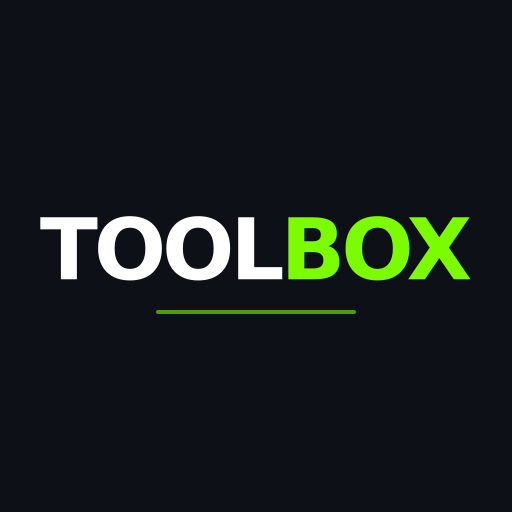
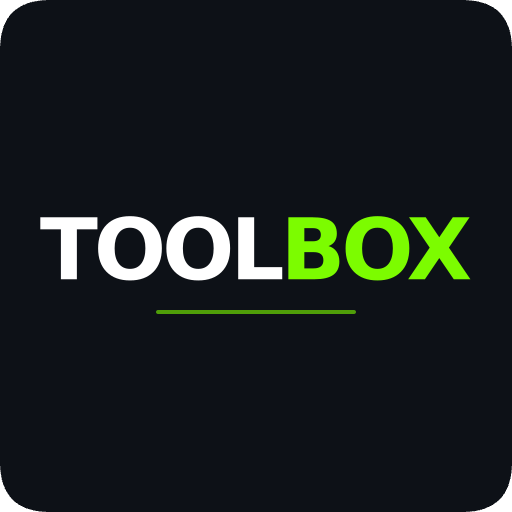
new_update

diff --git a/pages/iconResizer/index.html b/pages/iconResizer/index.html
@@ -43,53 +43,27 @@
         #cropper-wrapper { display: none; width: 100%; height: 100%; position: absolute; top: 0; left: 0; }
         #image-to-crop { display: block; max-width: 100%; }
 
-        /* YENİ: KIRPMA MODU SEÇİCİ */
-        .crop-mode-selector {
-            display: grid;
-            grid-template-columns: 1fr 1fr;
-            gap: 10px;
-            margin-bottom: 20px;
-        }
-
-        .mode-option {
-            background: #000;
-            border: 1px solid var(--border-neon);
-            border-radius: 10px;
-            padding: 12px;
-            color: var(--text-secondary);
-            font-size: 11px;
-            font-weight: 800;
-            text-transform: uppercase;
-            cursor: pointer;
-            transition: 0.3s;
-            display: flex;
-            justify-content: center;
-            align-items: center;
-            gap: 8px;
-        }
-
-        .mode-option.active {
-            color: #000;
-            background: var(--accent);
-            border-color: var(--accent);
-            box-shadow: 0 0 15px var(--accent);
-        }
+        .crop-mode-selector { display: grid; grid-template-columns: 1fr 1fr; gap: 10px; margin-bottom: 20px; }
+        .mode-option { background: #000; border: 1px solid var(--border-neon); border-radius: 10px; padding: 12px; color: var(--text-secondary); font-size: 11px; font-weight: 800; text-transform: uppercase; cursor: pointer; transition: 0.3s; display: flex; justify-content: center; align-items: center; gap: 8px; }
+        .mode-option.active { color: #000; background: var(--accent); border-color: var(--accent); box-shadow: 0 0 15px var(--accent); }
 
         .controls-group { display: grid; grid-template-columns: 1fr 1fr; gap: 15px; margin-bottom: 20px; }
         label { display: block; color: var(--text-secondary); font-size: 10px; font-weight: 800; margin-bottom: 8px; text-transform: uppercase; }
-        input[type="number"] { width: 100%; background: #000; border: 1px solid var(--border-neon); border-radius: 10px; padding: 14px; color: var(--accent); font-weight: 700; outline: none; }
+        input[type="number"] { width: 100%; background: #000; border: 1px solid var(--border-neon); border-radius: 10px; padding: 14px; color: var(--accent); font-weight: 700; outline: none; transition: 0.3s; }
+        input[type="number"]:focus { border-color: var(--accent); box-shadow: 0 0 10px var(--border-neon); }
 
         .btn-group { display: flex; gap: 10px; }
-        .btn { flex: 1; background: transparent; color: var(--accent); border: 2px solid var(--accent); border-radius: 12px; padding: 16px; font-size: 14px; font-weight: 800; text-transform: uppercase; cursor: pointer; display: flex; justify-content: center; align-items: center; gap: 10px; }
-        .btn:hover:not(:disabled) { background: var(--accent); color: #000; }
-        .btn:disabled { opacity: 0.2; }
+        .btn { flex: 1; background: transparent; color: var(--accent); border: 2px solid var(--accent); border-radius: 12px; padding: 16px; font-size: 14px; font-weight: 800; text-transform: uppercase; cursor: pointer; display: flex; justify-content: center; align-items: center; gap: 10px; transition: 0.3s; }
+        .btn:hover:not(:disabled) { background: var(--accent); color: #000; box-shadow: 0 0 20px var(--accent-glow); }
+        .btn:disabled { opacity: 0.2; cursor: not-allowed; }
         .btn-secondary { border-color: #30363d; color: #8b949e; }
 
         #file-input { display: none; }
         
         /* Cropper Customization */
-        .cropper-view-box { outline: 2px solid var(--accent); }
+        .cropper-view-box { outline: 2px solid var(--accent); transition: border-radius 0.3s ease; }
         .cropper-line, .cropper-point { background-color: var(--accent); }
+        .cropper-face { background-color: transparent !important; }
     </style>
 </head>
 <body>
@@ -132,6 +106,10 @@
                 <label>Yükseklik (px)</label>
                 <input type="number" id="height-input" value="512">
             </div>
+            <div class="input-item" style="grid-column: span 2;">
+                <label>Köşe Yumuşatma (Radius - px)</label>
+                <input type="number" id="radius-input" value="0" min="0" placeholder="Örn: 80">
+            </div>
         </div>
 
         <div class="btn-group">
@@ -142,7 +120,6 @@
         </div>
     </div>
 
-    <canvas id="canvas" style="display:none;"></canvas>
     <script src="https://cdnjs.cloudflare.com/ajax/libs/cropperjs/1.5.13/cropper.min.js"></script>
 
     <script>
@@ -153,6 +130,7 @@
         const fileNameDisplay = document.getElementById('file-name-display');
         const widthInput = document.getElementById('width-input');
         const heightInput = document.getElementById('height-input');
+        const radiusInput = document.getElementById('radius-input');
         const downloadBtn = document.getElementById('download-btn');
         const resetBtn = document.getElementById('reset-btn');
 
@@ -161,13 +139,10 @@
 
         let cropper = null;
         let currentFileName = "icon.png";
-        let currentCropMode = 'square'; // Varsayılan mod
+        let currentCropMode = 'square';
 
-        // Kırpma Modunu Ayarla
         function setCropMode(mode) {
             currentCropMode = mode;
-            
-            // UI Güncelle
             [modeSquare, modeFree].forEach(opt => opt.classList.remove('active'));
             if (mode === 'square') {
                 modeSquare.classList.add('active');
@@ -175,15 +150,18 @@
                 modeFree.classList.add('active');
             }
 
-            // Cropper'ı Güncelle (Eğer aktifse)
             if (cropper) {
-                if (mode === 'square') {
-                    cropper.setAspectRatio(1);
-                } else {
-                    cropper.setAspectRatio(NaN); // Serbest oran
-                }
+                cropper.setAspectRatio(mode === 'square' ? 1 : NaN);
             }
         }
+
+        // Radius değişimini canlı önizle
+        radiusInput.addEventListener('input', function() {
+            const viewBox = document.querySelector('.cropper-view-box');
+            if (viewBox) {
+                viewBox.style.borderRadius = this.value + 'px';
+            }
+        });
 
         fileInput.addEventListener('change', function(e) {
             const file = e.target.files[0];
@@ -201,7 +179,6 @@
                     cropperWrapper.style.display = 'block';
                     
                     cropper = new Cropper(imageToCrop, {
-                        // Başlangıç moduna göre oran ayarla
                         aspectRatio: (currentCropMode === 'square') ? 1 : NaN,
                         viewMode: 1,
                         background: false,
@@ -209,6 +186,8 @@
                         ready() {
                             downloadBtn.disabled = false;
                             resetBtn.disabled = false;
+                            // Mevcut radius değerini önizlemeye uygula
+                            document.querySelector('.cropper-view-box').style.borderRadius = radiusInput.value + 'px';
                         }
                     });
                 };
@@ -216,22 +195,55 @@
             }
         });
 
-        resetBtn.addEventListener('click', () => cropper && cropper.reset());
+        resetBtn.addEventListener('click', () => {
+            if(cropper) {
+                cropper.reset();
+                radiusInput.value = 0;
+                document.querySelector('.cropper-view-box').style.borderRadius = '0px';
+            }
+        });
 
         downloadBtn.addEventListener('click', function() {
             if (!cropper) return;
+            
             const targetWidth = parseInt(widthInput.value) || 512;
             const targetHeight = parseInt(heightInput.value) || 512;
+            const radius = parseInt(radiusInput.value) || 0;
+
+            // 1. Kırpılmış ham görseli al
             const croppedCanvas = cropper.getCroppedCanvas({
                 width: targetWidth,
                 height: targetHeight,
                 imageSmoothingQuality: 'high'
             });
 
+            // 2. Yeni bir transparan canvas oluştur (Radius uygulamak için)
+            const finalCanvas = document.createElement('canvas');
+            finalCanvas.width = targetWidth;
+            finalCanvas.height = targetHeight;
+            const ctx = finalCanvas.getContext('2d');
+
+            // 3. Yuvarlak Köşe Maskesi Çiz
+            ctx.beginPath();
+            ctx.moveTo(radius, 0);
+            ctx.lineTo(targetWidth - radius, 0);
+            ctx.quadraticCurveTo(targetWidth, 0, targetWidth, radius);
+            ctx.lineTo(targetWidth, targetHeight - radius);
+            ctx.quadraticCurveTo(targetWidth, targetHeight, targetWidth - radius, targetHeight);
+            ctx.lineTo(radius, targetHeight);
+            ctx.quadraticCurveTo(0, targetHeight, 0, targetHeight - radius);
+            ctx.lineTo(0, radius);
+            ctx.quadraticCurveTo(0, 0, radius, 0);
+            ctx.closePath();
+            
+            ctx.clip(); // Maskeyi uygula
+            ctx.drawImage(croppedCanvas, 0, 0); // Görseli maskenin içine çiz
+
+            // 4. İndir
             const baseName = currentFileName.split('.').slice(0, -1).join('.') || 'icon';
             const link = document.createElement('a');
             link.download = `${baseName}-${targetWidth}x${targetHeight}.png`;
-            link.href = croppedCanvas.toDataURL('image/png');
+            link.href = finalCanvas.toDataURL('image/png');
             link.click();
         });
     </script>
